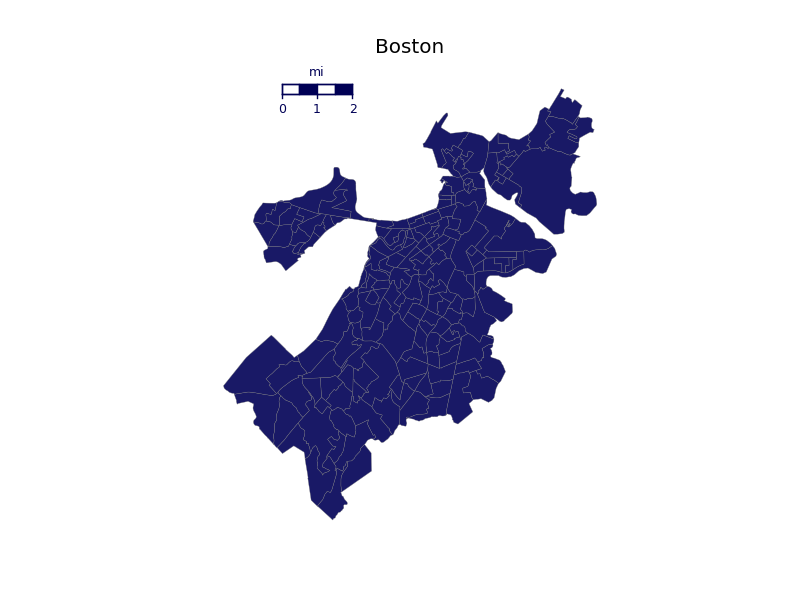
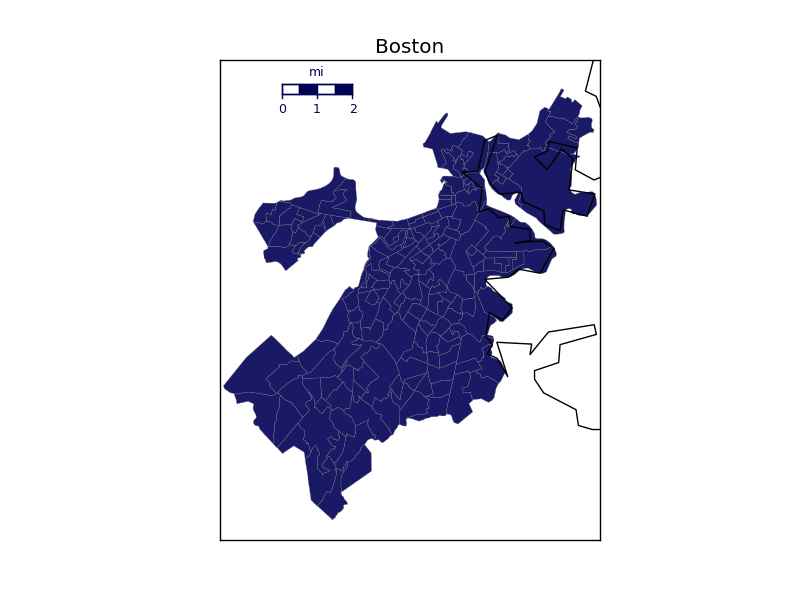
Played with coastlines and points.

diff --git a/census/bostonmap.py b/census/bostonmap.py
@@ -28,7 +28,7 @@ class BostonMap(object):
 
   def loadBasemap(self):
     self.fig = plt.figure()
-    self.ax = self.fig.add_subplot(111, axisbg='w', frame_on=False)
+    self.ax = self.fig.add_subplot(111)
 
     self.map = Basemap(
     projection='tmerc',
@@ -39,7 +39,8 @@ class BostonMap(object):
     urcrnrlon=self.coords[2] + self.extra * self.w,
     urcrnrlat=self.coords[3] + self.extra + 0.01 * self.h,
     lat_ts=0,
-    resolution='i',
+    resolution='h',
+    area_thresh=0.05,
     suppress_ticks=True)
 
     self.map.readshapefile(
@@ -69,6 +70,10 @@ class BostonMap(object):
 
     self.buildDFs()
 
+    # plot leverett g tower for fun
+    x,y = self.map(-71.1161, 42.3692)
+    self.map.plot(x, y, 'go', markersize=5)
+
     # Draw a map scale
     self.map.drawmapscale(
       self.coords[0] + self.w/4, self.coords[3],
@@ -91,6 +96,6 @@ class BostonMap(object):
     return
 
 if __name__ == "__main__":
-  out = raw_input("Enter name of map png: ")
+  out = raw_input("Enter name of output png: ")
   boston = BostonMap(out)
   boston.plotMap()
